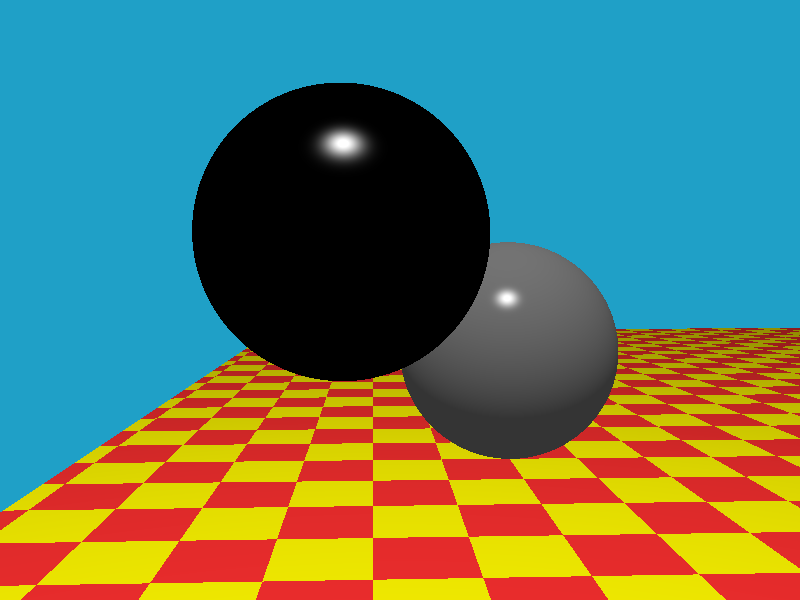
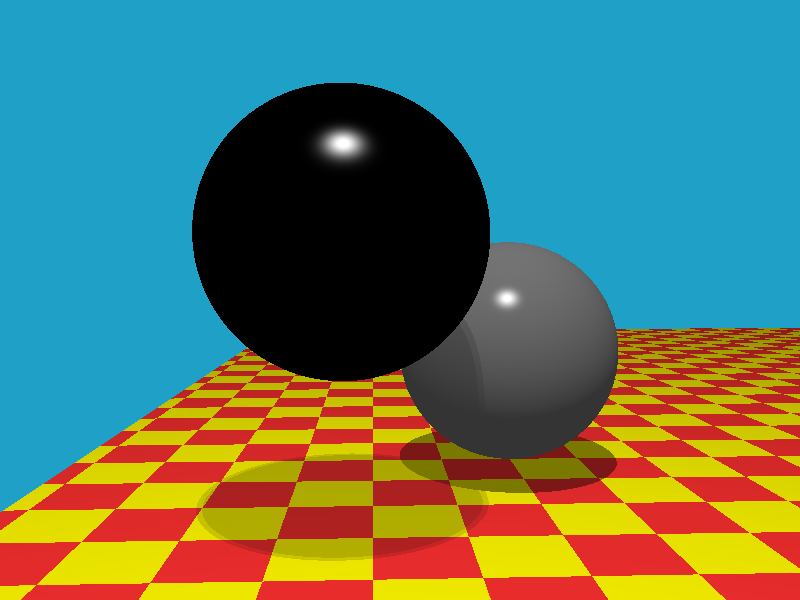
ahora si funciona piola

Changed region(s): [[0.2188, 0.72, 0.7812, 0.96]]

diff --git a/src/rt/scene.cpp b/src/rt/scene.cpp
@@ -31,14 +31,7 @@ glm::vec3 Scene::background(const Ray &r) const
 
 glm::vec3 Scene::normal_color(const Ray &r) const
 {
-    // TODO (paso 3): normales como color.
-    // Buscar la intersección más cercana (find_nearest); si no hay, devolver
-    // el color del fondo. Si hay, ajustar el valor de la normal de [-1,1] a
-    // [0,1] para cada componente y devolverla como color.
-    // El resultado se puede ver con:  ./bin/rrt -n
-
     Hit h; // instanciamos un rayo con t en el infinito
-
     if (!find_nearest(r, h))
     { // me devuelve el objeto mas cercano al rayo, si no hay intersección devuelve false
         return background(r);
@@ -116,17 +109,17 @@ float Scene::light_transmission(const glm::vec3 &p, const glm::vec3 &n,
         // está más allá de la luz no cuenta
         Hit h;
         const bool found = find_nearest(Ray(origin, s_normalized), h);
-        const bool objeto_detras_foco = h.t < dist - EPSILON;
+        const bool objeto_detras_foco = h.t >= dist - EPSILON; // si el objeto está detrás de la luz, no cuenta
         if (!found || objeto_detras_foco)
         {
             return transmission;
         }
-        transmission *= h.mat->shadow_transmission();
-        if (transmission <= 0.0f)
+        transmission *= h.mat->shadow_transmission(); // si deja pasar algo de luz
+        if (transmission <= 0.0f) // sigue hasta que choca con algo opaco
         {
             return 0.0f;
         }
-        origin = h.p + s_normalized * EPSILON;
+        origin = h.p + s_normalized * EPSILON; // el rayo sale ahora de dentro de la esfera, es el rayo defractado
     }
     return transmission;
 }
